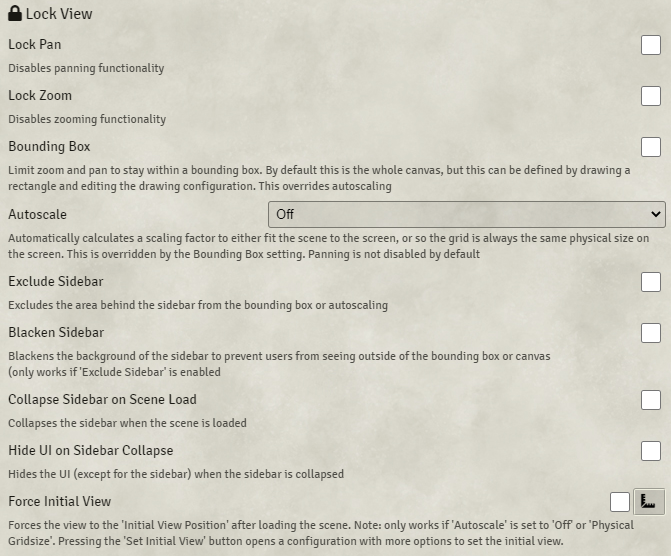
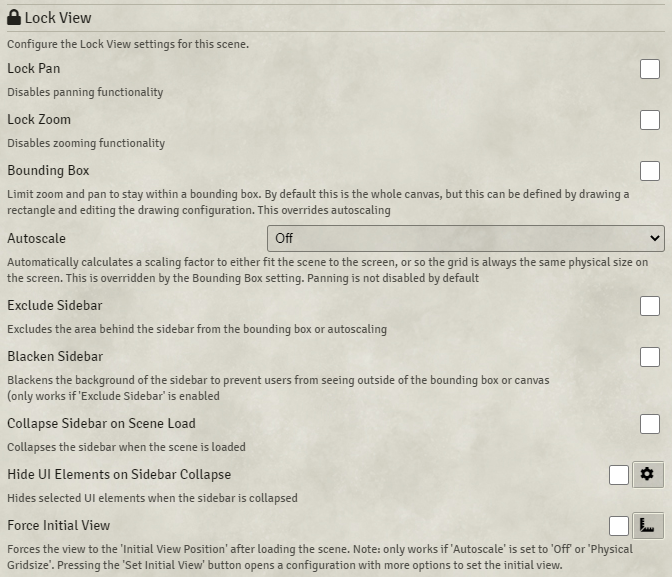
v1.4.10

diff --git a/src/sceneConfig.js b/src/sceneConfig.js
@@ -14,6 +14,14 @@ export function renderSceneConfig(app,html){
     let excludeSidebar = false;
     let blackenSidebar = false;
     let hideUI = false;
+    let hideUIelements = {
+        logo: true,
+        navigation: true,
+        controls: true,
+        players: true,
+        hotbar: true,
+        sidebar: false
+    }
     let collapseSidebar = false;
 
     if(app.object.data.flags["LockView"]){
@@ -51,6 +59,10 @@ export function renderSceneConfig(app,html){
             hideUI = app.object.getFlag('LockView', 'hideUI');
         } else app.object.setFlag('LockView', 'hideUI', false);
 
+        if (app.object.data.flags["LockView"].hideUIelements){
+            hideUIelements = app.object.getFlag('LockView', 'hideUIelements');
+        } else app.object.setFlag('LockView', 'hideUIelements', hideUIelements);
+
         if (app.object.data.flags["LockView"].collapseSidebar){
             collapseSidebar = app.object.getFlag('LockView', 'collapseSidebar');
         } else app.object.setFlag('LockView', 'collapseSidebar', false);
@@ -74,9 +86,8 @@ export function renderSceneConfig(app,html){
     autoScaleSelected[autoScale] = "selected"
 
     const fxHtml = `
-    <header class="form-header">
-        <h3><i class="fas fa-lock"/></i> Lock View</h3>
-    </header>
+        <h3 class="form-header"><i class="fas fa-lock"/></i> Lock View</h3>
+        <p class="notes">${game.i18n.localize("LockView.Scene.Hint")}</p>
     <div class="form-group">
         <label>${game.i18n.localize("LockView.Scene.LockPan")}</label>
         <input id="LockView_lockPan" type="checkbox" name="LV_lockPan" data-dtype="Boolean" ${lockPan_Default ? 'checked' : ''}>
@@ -121,14 +132,17 @@ export function renderSceneConfig(app,html){
     </div>
     <div class="form-group">
         <label>${game.i18n.localize("LockView.Scene.HideUI")}</label>
-        <input id="LockView_hideUI" type="checkbox" name="LV_hideUI" data-dtype="Boolean" ${hideUI ? 'checked' : ''}>
+        <div class="form-fields">
+            <input id="LockView_hideUI" type="checkbox" name="LV_hideUI" data-dtype="Boolean" ${hideUI ? 'checked' : ''}>
+            <button type="button" title="${game.i18n.localize("LockView.Scene.HideUIDialog.Title")}" id="LockView_setUIelements"><i class="fas fa-cog"></i></button>
+        </div>
         <p class="notes">${game.i18n.localize("LockView.Scene.HideUI_Hint")}</p>
     </div>
     <div class="form-group">
         <label>${game.i18n.localize("LockView.Scene.ForceInit")}</label>
         <div class="form-fields">
             <input id="LockView_forceInit" type="checkbox" name="LV_forceInit" data-dtype="Boolean" ${forceInit ? 'checked' : ''}>
-            <button class="capture-position" type="button" title="Set Initial View" id="LockView_setInitialView"><i class="fas fa-ruler-combined"></i></button>
+            <button class="capture-position" type="button" title="${game.i18n.localize("LockView.Scene.SetInitialView")}" id="LockView_setInitialView"><i class="fas fa-ruler-combined"></i></button>
         </div>
         <p class="notes">${game.i18n.localize("LockView.Scene.ForceInit_Hint")}</p>
     </div>
@@ -144,6 +158,59 @@ export function renderSceneConfig(app,html){
         else
             ui.notifications.warn(game.i18n.localize("LockView.UI.NotOnScene"));
     })
+
+    const setUIElementsButton = html.find("button[id = 'LockView_setUIelements']");
+    setUIElementsButton.on("click",event => {
+        handleUIelementsDialog(hideUIelements,app);
+    })
+}
+
+function handleUIelementsDialog(hideUIelements,app) {
+    const content = `
+        <hr>
+        <div style="display:flex">
+            <label style="width:90%">${game.i18n.localize("LockView.Scene.HideUIDialog.Logo")}</label>
+            <input style="width:10%" id="LockView_hideUI_Logo" type="checkbox" data-dtype="Boolean" ${hideUIelements.logo ? 'checked' : ''}>
+        </div>  
+        <div style="display:flex">
+            <label style="width:90%">${game.i18n.localize("LockView.Scene.HideUIDialog.Navigation")}</label>
+            <input style="width:10%" id="LockView_hideUI_Navigation" type="checkbox" data-dtype="Boolean" ${hideUIelements.navigation ? 'checked' : ''}>
+        </div>  
+        <div style="display:flex">
+            <label style="width:90%">${game.i18n.localize("LockView.Scene.HideUIDialog.Controls")}</label>
+            <input style="width:10%" id="LockView_hideUI_Controls" type="checkbox" data-dtype="Boolean" ${hideUIelements.controls ? 'checked' : ''}>
+        </div>  
+        <div style="display:flex">
+            <label style="width:90%">${game.i18n.localize("LockView.Scene.HideUIDialog.Players")}</label>
+            <input style="width:10%" id="LockView_hideUI_Players" type="checkbox" data-dtype="Boolean" ${hideUIelements.players ? 'checked' : ''}>
+        </div>  
+        <div style="display:flex">
+            <label style="width:90%">${game.i18n.localize("LockView.Scene.HideUIDialog.Hotbar")}</label>
+            <input style="width:10%" id="LockView_hideUI_Hotbar" type="checkbox" data-dtype="Boolean" ${hideUIelements.hotbar ? 'checked' : ''}>
+        </div>  
+        <div style="display:flex">
+            <label style="width:90%">${game.i18n.localize("LockView.Scene.HideUIDialog.Sidebar")}</label>
+            <input style="width:10%" id="LockView_hideUI_Sidebar" type="checkbox" data-dtype="Boolean" ${hideUIelements.sidebar ? 'checked' : ''}>
+        </div>  
+    `
+    
+    let d = new Dialog({
+        title: `Lock View: ${game.i18n.localize("LockView.Scene.HideUIDialog.Title")}`,
+        content: game.i18n.localize("LockView.Scene.HideUIDialog.Content") + content,
+        buttons: {},
+        close: html => {
+            const uiElements = {
+                logo: html.find("input[id ='LockView_hideUI_Logo']").is(":checked"),
+                navigation: html.find("input[id ='LockView_hideUI_Navigation']").is(":checked"),
+                controls: html.find("input[id ='LockView_hideUI_Controls']").is(":checked"),
+                players: html.find("input[id ='LockView_hideUI_Players']").is(":checked"),
+                hotbar: html.find("input[id ='LockView_hideUI_Hotbar']").is(":checked"),
+                sidebar: html.find("input[id ='LockView_hideUI_Sidebar']").is(":checked")
+            }
+            app.object.setFlag('LockView', 'hideUIelements', uiElements);
+        }
+       });
+       d.render(true);
 }
 
 /*

diff --git a/lockview.js b/lockview.js
@@ -72,14 +72,29 @@ Hooks.on("renderPlayerList", (playerlist,init,users) => {
   VIEWBOX.getViewboxData();
 });
 
-function setUI(hide) {
+async function setUI(hide) {
+  console.log('test',hide,MISC.getEnable(game.userId),canvas.scene.getFlag('LockView', 'hideUI'))
   sidebarCollapsed = hide;
   if (hide && MISC.getEnable(game.userId) && canvas.scene.getFlag('LockView', 'hideUI')) {
-    $('#logo').hide();
-    $('#navigation').hide();
-    $('#controls').hide();
-    $('#players').hide();
-    $('#hotbar').hide();
+    let hideUIelements = {};
+    if (canvas.scene.data.flags["LockView"].hideUIelements){
+      hideUIelements = await canvas.scene.getFlag('LockView', 'hideUIelements');
+    } 
+    else hideUIelements = {
+      logo: true,
+      navigation: true,
+      controls: true,
+      players: true,
+      hotbar: true,
+      sidebar: false
+  }
+  console.log('hide',hideUIelements)
+    if (hideUIelements.logo) $('#logo').hide();
+    if (hideUIelements.navigation) $('#navigation').hide();
+    if (hideUIelements.controls) $('#controls').hide();
+    if (hideUIelements.players) $('#players').hide();
+    if (hideUIelements.hotbar) $('#hotbar').hide();
+    if (hideUIelements.sidebar) $('#sidebar').hide();
   }
   else {
     $('#logo').show();
@@ -87,6 +102,7 @@ function setUI(hide) {
     $('#controls').show();
     $('#players').show();
     $('#hotbar').show();
+    $('#sidebar').show();
   }
 }
 
@@ -98,8 +114,8 @@ async function onRenderSceneControls(controls){
     combatTrigger = false;
     return;
   }
-  //If no canvas is defined, or the user is not a GM, return
-  if (canvas == null) return;
+  //If no canvas or scene is defined/loaded, return
+  if (canvas == null || canvas.scene == null) return;
   
   if (newSceneLoad == true && MISC.getEnable(game.userId) && canvas?.scene?.getFlag('LockView', 'collapseSidebar')) 
     ui.sidebar.collapse();
@@ -248,6 +264,11 @@ async function onRenderSidebarTab(){
   VIEWBOX.sendViewBox();
 }
 
+function forceInitialView() {
+  if (newSceneLoad) return canvas.scene.data.initial;
+  else return {};
+}
+
 /*
  * Apply the settings
  */
@@ -269,7 +290,7 @@ export async function applySettings(force=false,forceInitial=true) {
     
     //If 'forceInit' is enabled, set 'newPosition' to the canvas' initial position
     if (BLOCKS.forceInit && forceInitial) 
-      newPosition = canvas.scene.data.initial;
+      newPosition = forceInitialView()
 
     //If 'autoScale' is set to 'physical gridsize', calculate the scale, and set it in 'newPosition'
     if (BLOCKS.autoScale == 5) {

diff --git a/templates/helpMenu.html b/templates/helpMenu.html
@@ -90,7 +90,7 @@
         <li><b>Exclude Sidebar</b> - Exclude the area behind the sidebar from the bounding box or autoscaling. This can be enabled because the sidebar can obscure parts of the map</li>
         <li><b>Blacken Sidebar</b> - Blackens the background of the sidebar to prevent users from seeing outsie of the bounding box or canvas (only works if 'Exclude Sidebar' is enabled)</li>
         <li><b>Collapse Sidebar on Scene Load</b> - Collapses the sidebar when the scene is loaded, mainly useful in combination with 'Hide UI on Sidebar Collapse'</li>
-        <li><b>Hide UI on Sidebar Collapse</b> - Hides all UI elements (such as the macro hotbar, scene navigation, etc), expect for the sidebar, when the sidebar is collapsed, great for landing pages or splash screens</li>
+        <li><b>Hide UI Elements on Sidebar Collapse</b> - Hides selected UI elements (such as the macro hotbar, scene navigation, etc) when the sidebar is collapsed, great for landing pages or splash screens. You can configure which elements to hide by pressing the 'cog' button next to the checkbox. By default all elements except for the sidebar are enabled</li>
         <li><b>Force Initial View</b> - Forces the view to the 'Initial View Position' after loading the scene. Only works if 'Autoscale' is set to 'Off' or 'Physical Gridsize'</li>
         <li><b>Configure Initial View Position button</b> - The button is located to the right of the 'Force Initial View' checkbox. Pressing it opens the 'Configure Initial View Position dialog screen (see below)</li>
         </ul>

diff --git a/README.md b/README.md
@@ -96,13 +96,16 @@ Don't forget to save the scene configuration to have the new settings take effec
 ### Scene Settings
 In the scene configuration screen, you'll find a new Lock View section with the following settings:<br>
 <ul>
-<li><b>Pan Lock</b> - Initial 'Pan Lock' setting</li>
-<li><b>Zoom Lock</b> - Initial 'Zoom Lock' setting</li>
-<li><b>Bounding box:</b> Initial 'Bounding Box' settings</li>
-<li><b>Autoscale</b> - Automatically scales the screen</li>
-<li><b>Exclude Sidebar</b> - Exclude the area behind the sidebar from the bounding box or autoscaling. This can be enabled because the sidebar can obscure parts of the map</li>
-<li><b>Blacken Sidebar</b> - Blackens the background of the sidebar to prevent users from seeing outsie of the bounding box or canvas (only works if 'Exclude Sidebar' is enabled)</li>
-<li><b>Force Initial View</b> - Forces the view to the 'Initial View Position' after loading the scene. Only works if 'Autoscale' is set to 'Off' or 'Physical Gridsize'</li>
+  <li><b>Pan Lock</b> - Initial 'Pan Lock' setting</li>
+  <li><b>Zoom Lock</b> - Initial 'Zoom Lock' setting</li>
+  <li><b>Bounding box:</b> Initial 'Bounding Box' settings</li>
+  <li><b>Autoscale</b> - Automatically scales the screen</li>
+  <li><b>Exclude Sidebar</b> - Exclude the area behind the sidebar from the bounding box or autoscaling. This can be enabled because the sidebar can obscure parts of the map</li>
+  <li><b>Blacken Sidebar</b> - Blackens the background of the sidebar to prevent users from seeing outsie of the bounding box or canvas (only works if 'Exclude Sidebar' is enabled)</li>
+  <li><b>Collapse Sidebar on Scene Load</b> - Collapses the sidebar when the scene is loaded, mainly useful in combination with 'Hide UI on Sidebar Collapse'</li>
+  <li><b>Hide UI Elements on Sidebar Collapse</b> - Hides selected UI elements (such as the macro hotbar, scene navigation, etc) when the sidebar is collapsed, great for landing pages or splash screens. You can configure which elements to hide by pressing the 'cog' button next to the checkbox. By default all elements except for the sidebar are enabled</li>
+  <li><b>Force Initial View</b> - Forces the view to the 'Initial View Position' after loading the scene. Only works if 'Autoscale' is set to 'Off' or 'Physical Gridsize'</li>
+  <li><b>Configure Initial View Position button</b> - The button is located to the right of the 'Force Initial View' checkbox. Pressing it opens the 'Configure Initial View Position dialog screen (see below)</li>
 </ul>
 Autoscale can be set to the following options:<br>
 <ul>

diff --git a/changelog.md b/changelog.md
@@ -1,4 +1,21 @@
 # Changelog
+### v1.4.10 - 31-05-2021
+Fixes:
+<ul>
+<li>Removed some console errors about the canvas not being initialized</li>
+<li>The previous update didn't properly stop all unintended resets to the initial view</li>
+</ul>
+
+Additions:
+<ul>
+<li>In the scene config, you can now set what UI elements to hide by pressing the button next to the 'Hide UI Elements on Sidebar Collapse' button</li>
+</ul>
+
+Other:
+<ul>
+<li>Confirmed compatibility with Foundry 0.8.6</li>
+</ul>
+
 ### v1.4.9 - 14-05-2021
 Fixes:
 <ul>
